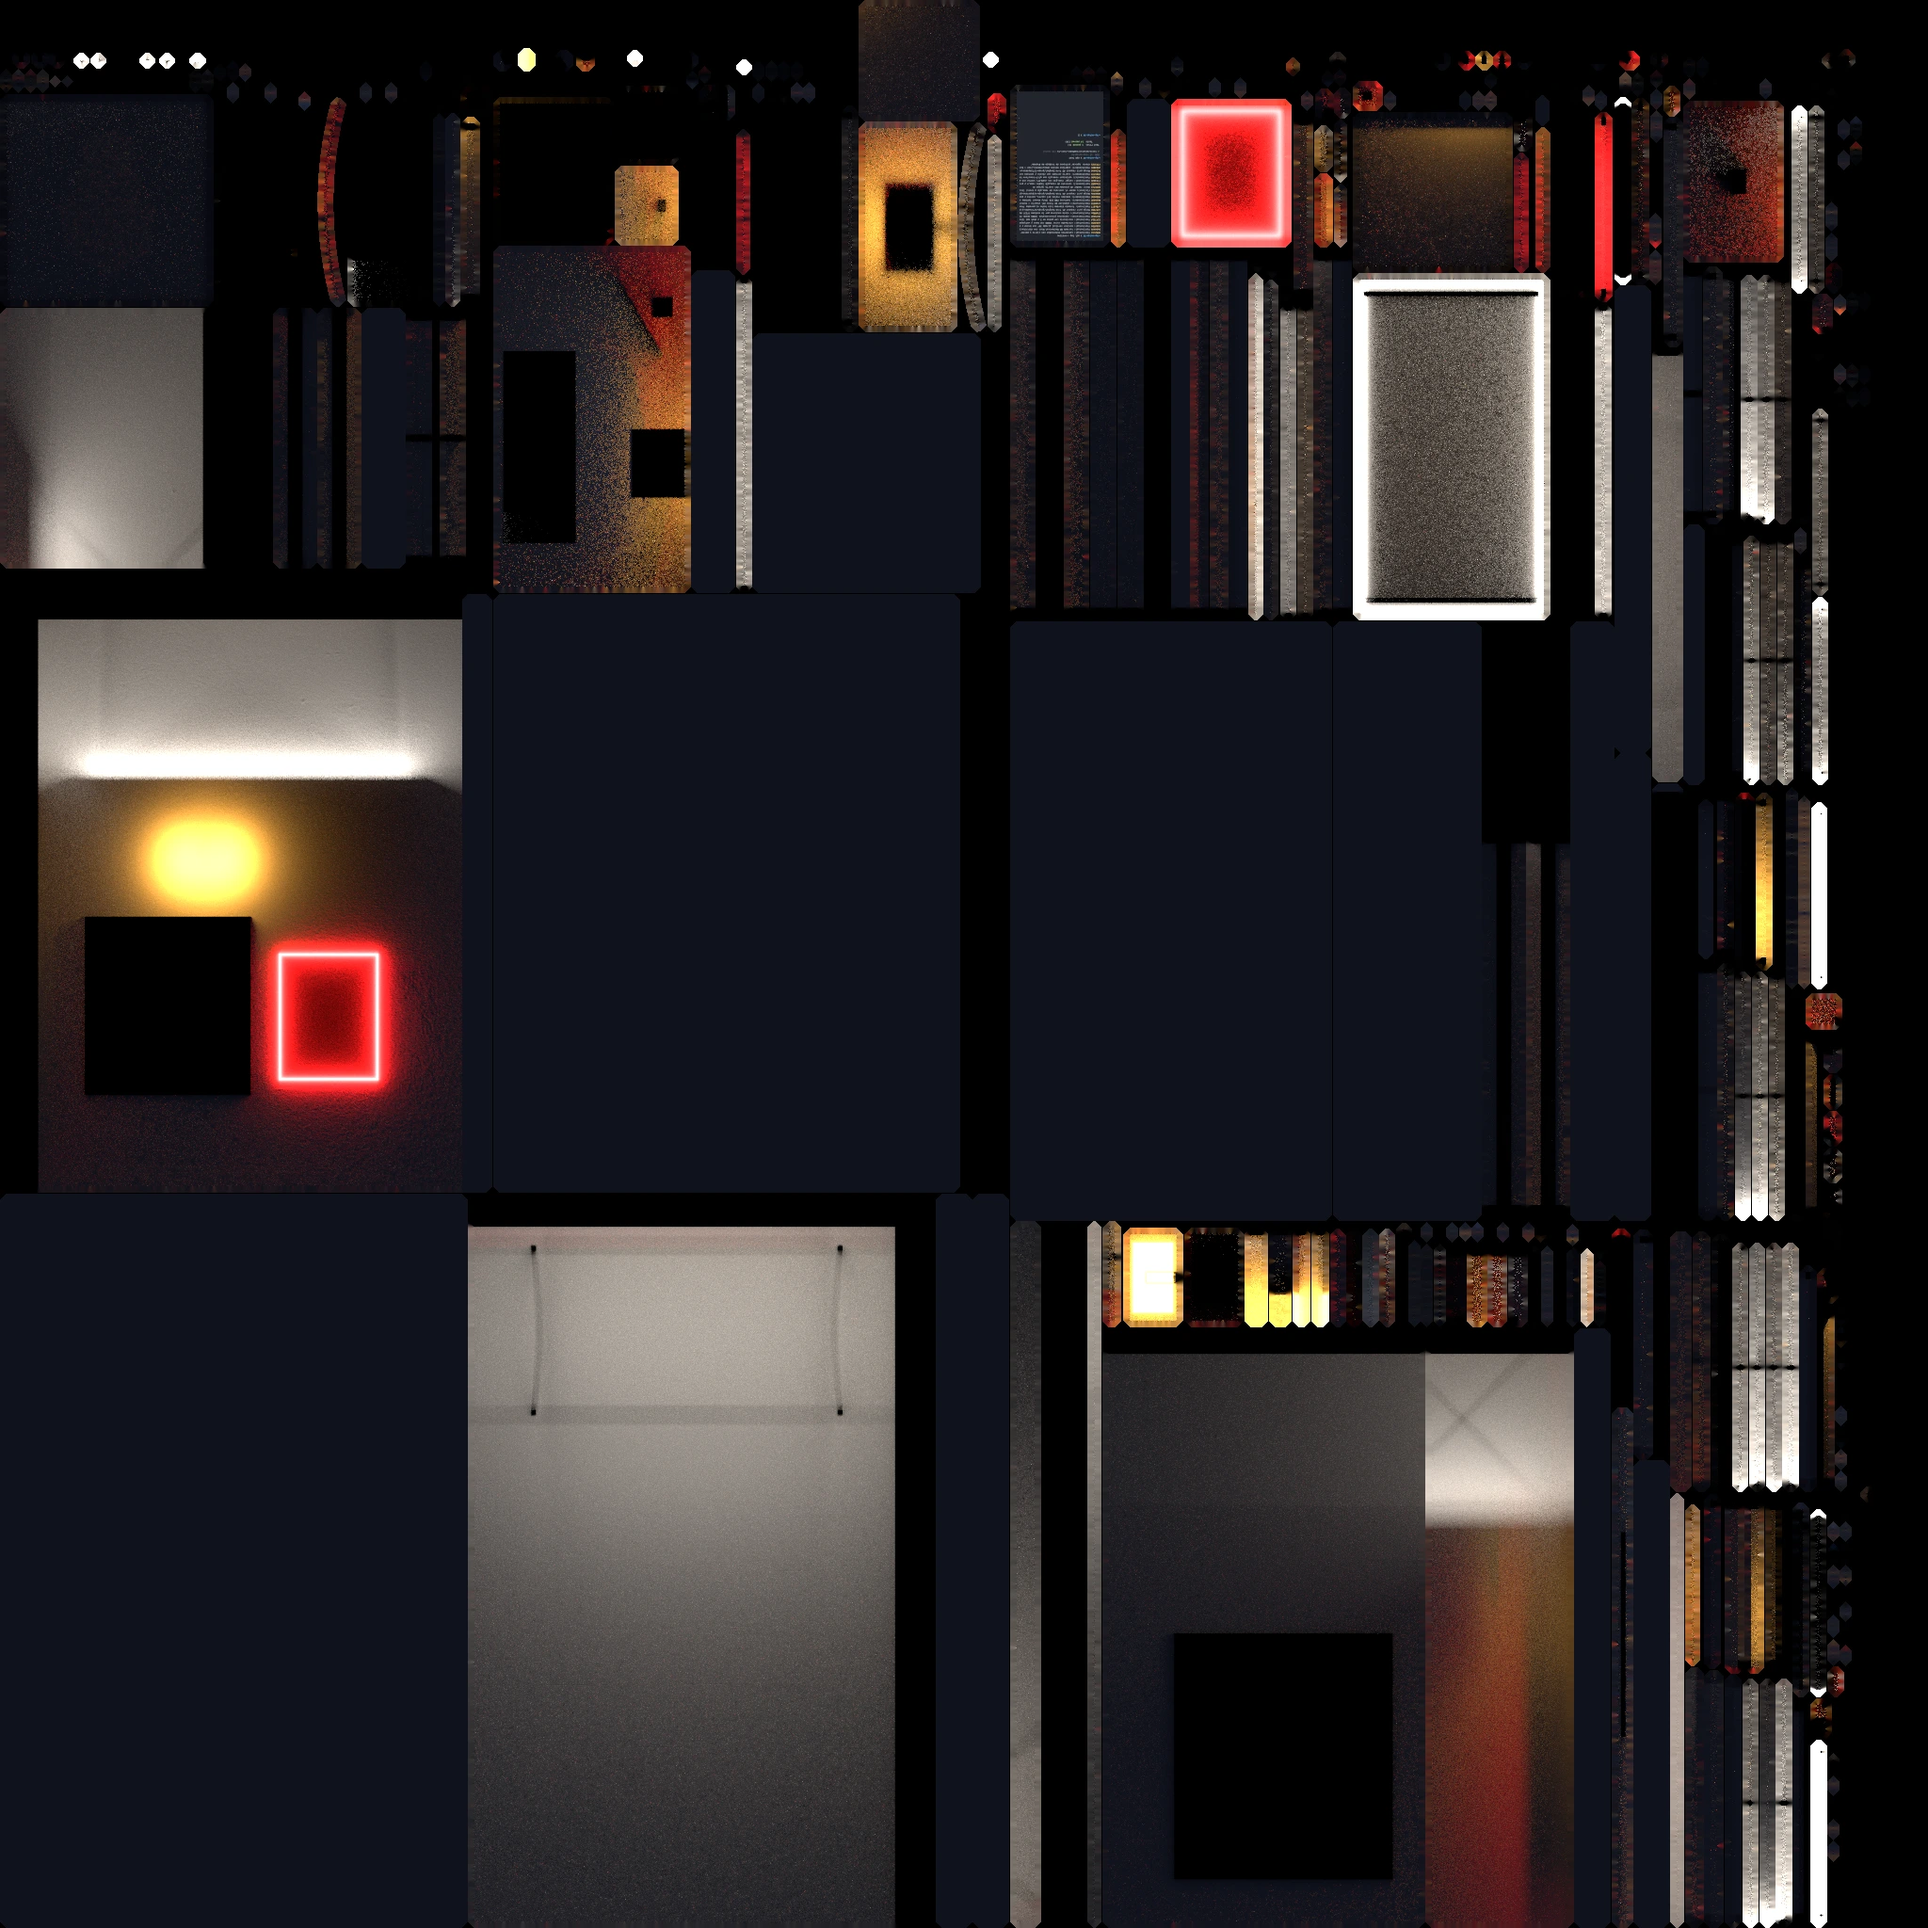
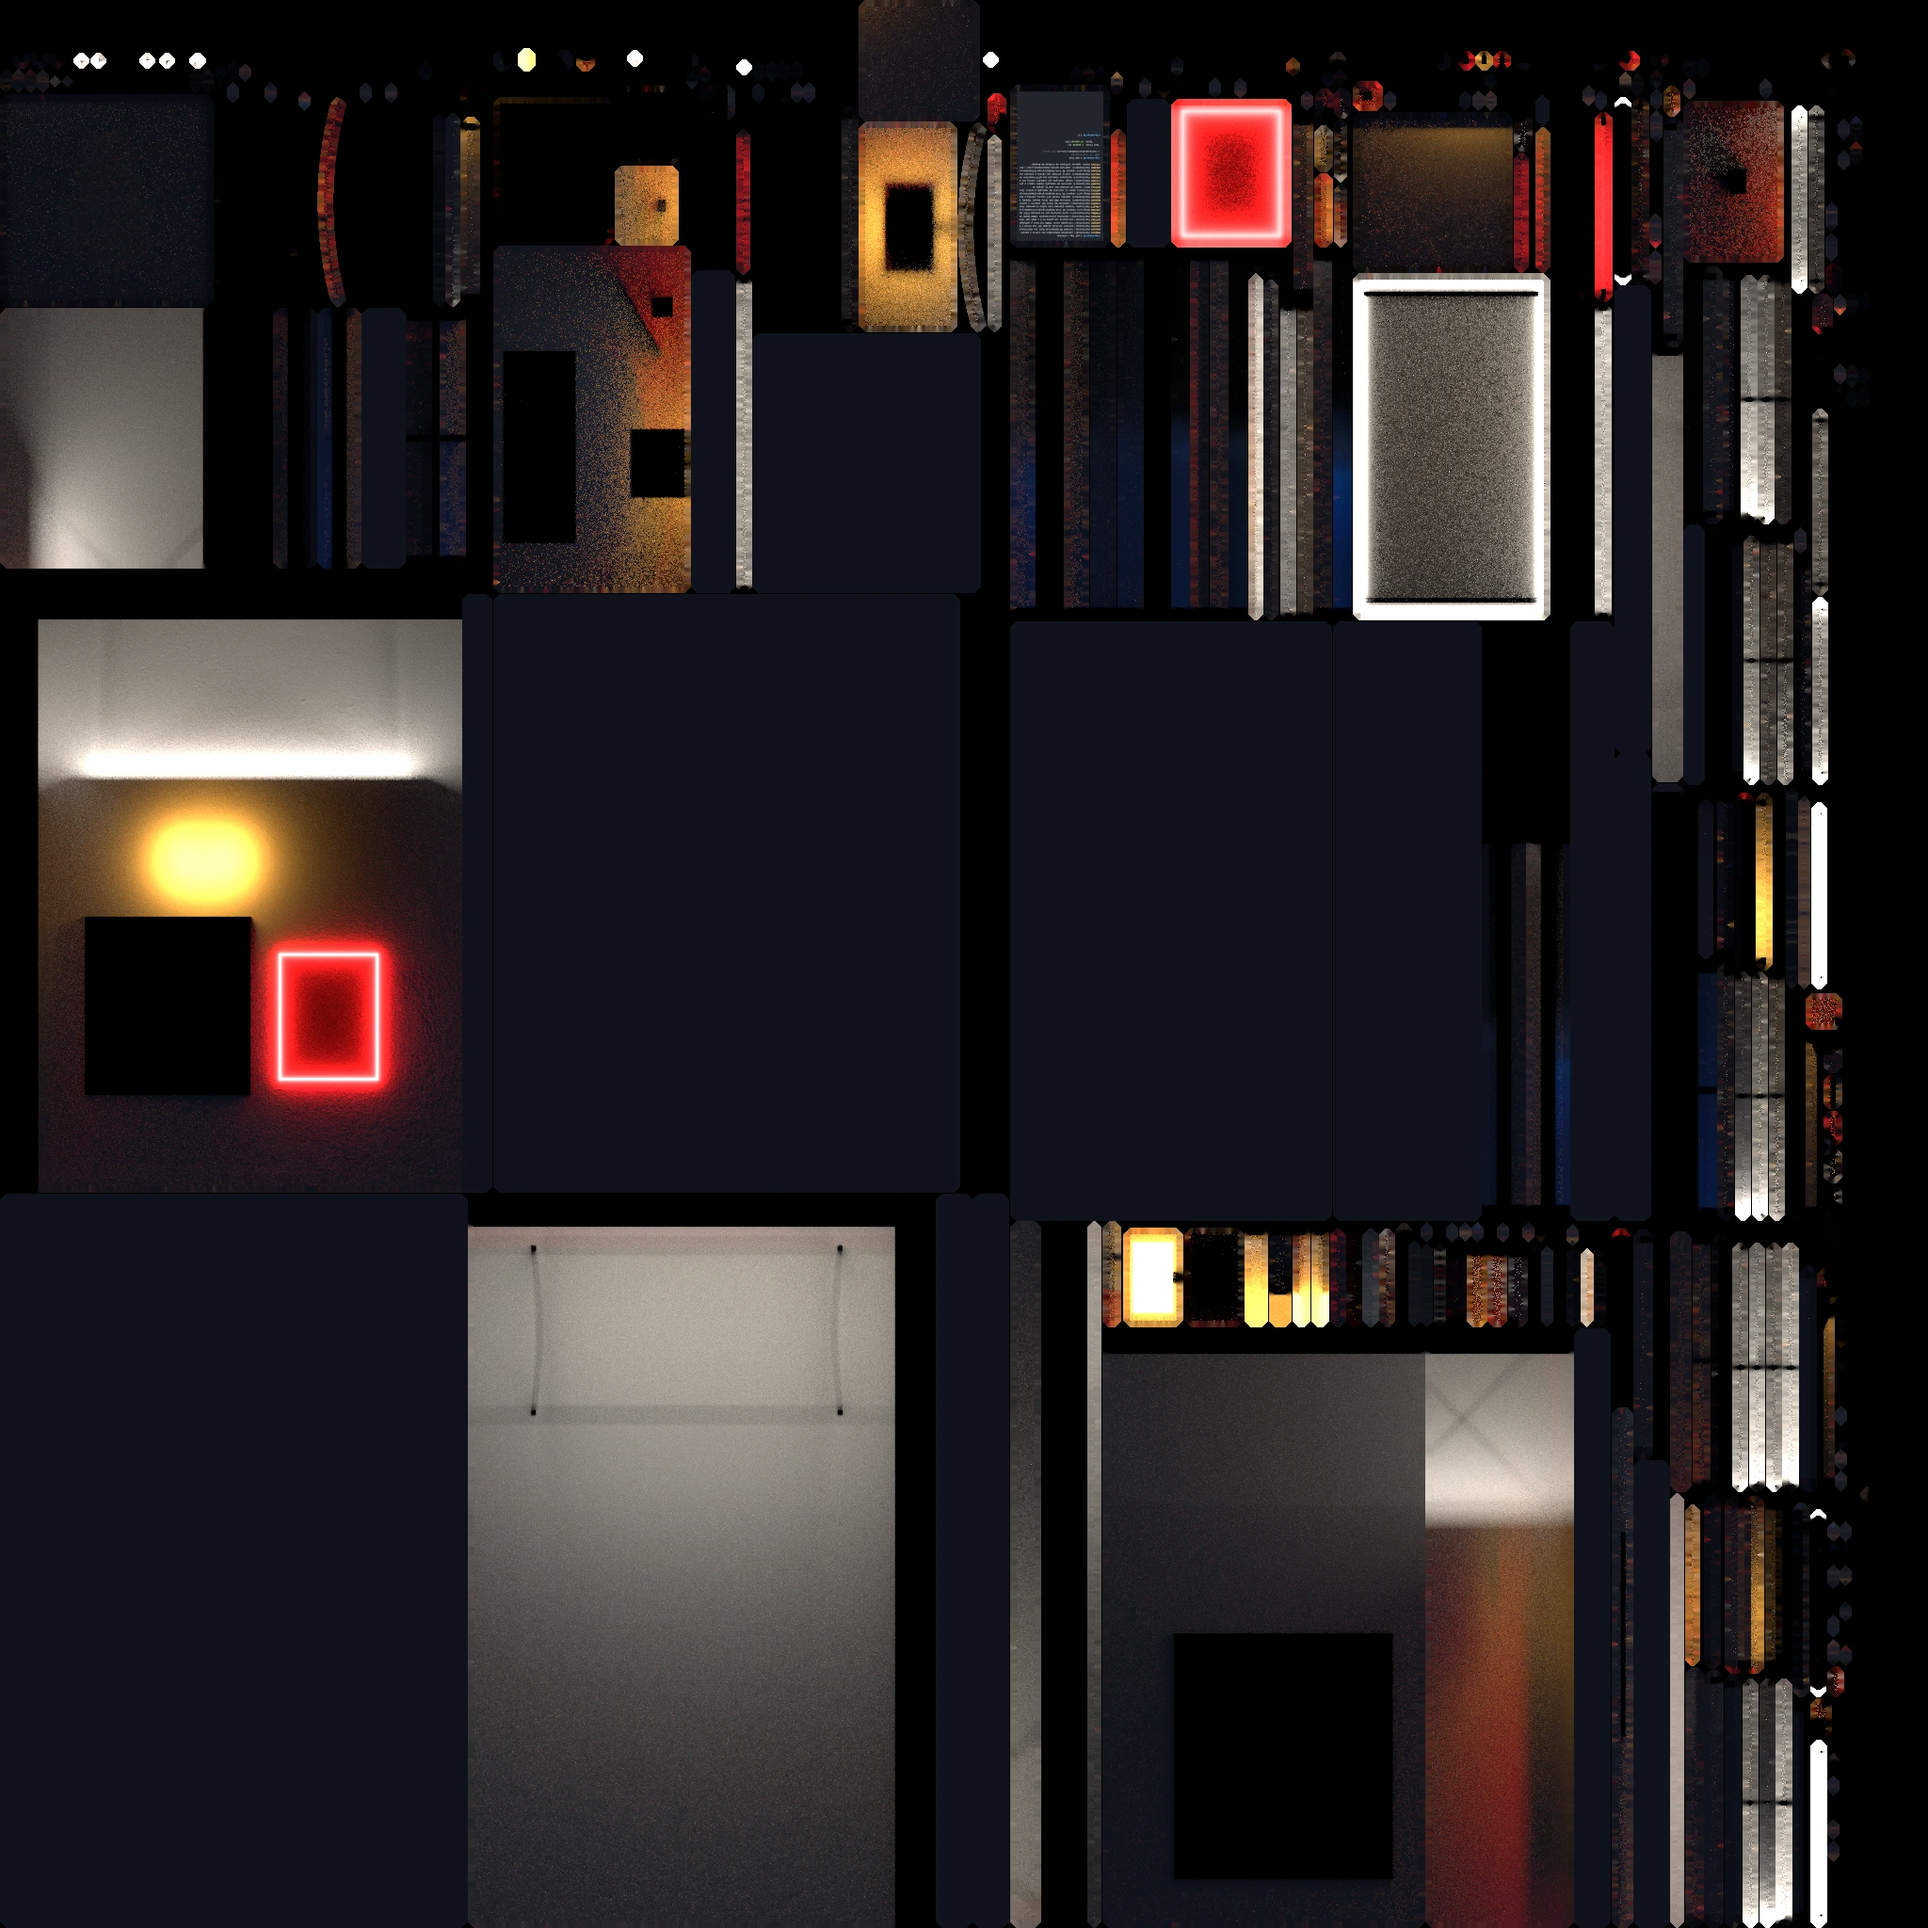
feat(room): vista nocturna de la ciudad dentro del hueco de la ventana + lightmap final
El plano va dentro del hueco (la pared lo enmarca): en el diorama, detrás de la pared asomaba por el borde.

diff --git a/blender/scripts/lib/setup.py b/blender/scripts/lib/setup.py
@@ -299,3 +299,21 @@ def build_poster(m: dict):
     ]
     group("item_poster", parts, p((u0 + u1) / 2, 0, b0))
     return {"u0": u0, "u1": u1, "b0": b0, "b1": b1, "depth": depth}
+
+
+def build_window_view(m: dict):
+    """La ciudad de noche detrás de la ventana: un plano emisivo con la foto (F13, desenfocada).
+    En un diorama la pared está cortada y la cámara mira desde arriba: un plano detrás de la pared
+    asomaría por el borde. Por eso va DENTRO del hueco, junto al borde exterior y del tamaño exacto
+    del hueco: la propia pared lo enmarca."""
+    win = m["window"]
+    p = _wall_point(m, "side")
+    outer = -(win["depth"] - 0.5)  # `out` negativo = hacia afuera; casi en la cara exterior de la pared
+    u0, u1 = win["distance"], win["distance"] + win["width"]
+    z0, z1 = win["sill"], win["sill"] + win["height"]
+    view = quad(
+        "window_view_screen",  # sufijo _screen: no recibe luz horneada (emite la suya)
+        [p(u0, outer, z0), p(u1, outer, z0), p(u1, outer, z1), p(u0, outer, z1)],
+        materials.screen("window_view", "window_night.jpg", strength=0.35),
+    )
+    group("room_window_view", [view], p((u0 + u1) / 2, outer, z0))

diff --git a/blender/scripts/build_room.py b/blender/scripts/build_room.py
@@ -25,6 +25,7 @@ from lib.setup import (  # noqa: E402
     build_poster,
     build_ultrawide,
     build_vertical_monitor,
+    build_window_view,
 )
 
 
@@ -41,6 +42,7 @@ def main() -> None:
     build_frame(m, "jersey2008", "item_jersey_2008", "jersey_2008.jpg")
     build_frame(m, "jerseyScholes", "item_jersey_scholes", "jersey_scholes.jpg")
     poster = build_poster(m)
+    build_window_view(m)
     build_night_lights(m, desk, ultrawide, poster, WEB_BACKGROUND)
 
     targets = [obj for obj in bpy.data.objects if is_bake_target(obj)]
